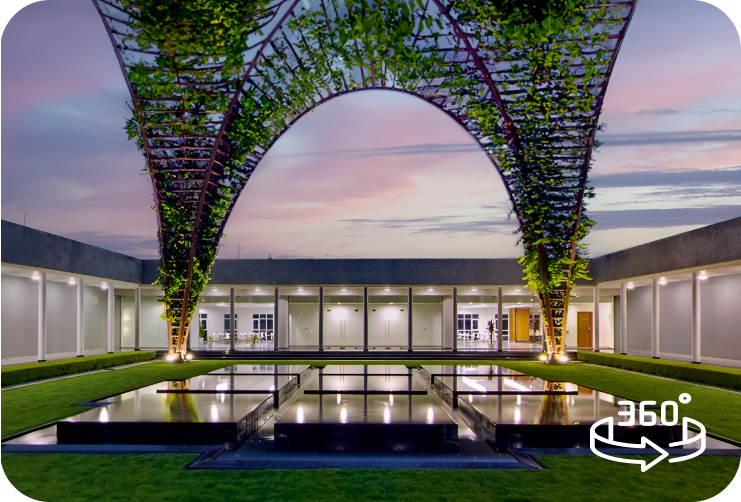
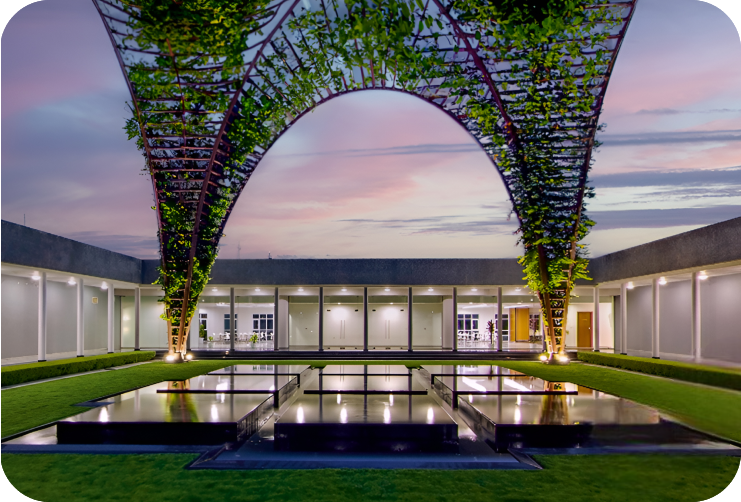
update
ama img

Changed region(s): [[0.776, 0.7171, 1.0, 0.9562], [0.9933, 0.8964, 1.0, 0.9263], [0.9933, 0.7769, 1.0, 0.8068]]

diff --git a/src/components/Ama/Discover.jsx b/src/components/Ama/Discover.jsx
@@ -29,7 +29,7 @@ export default function Discover() {
                     <div className="relative w-[55%] h-[30vw] rounded-[3vw] overflow-hidden fadeUp mobile:h-[100vw] mobile:w-[80vw] tablet:w-[80vw] tablet:h-[30vh] mobile:rounded-[6vw]">
                         <Image
                             className="w-full object-cover imageanim"
-                            src="/assets/ama/ama-discover-img.webp" 
+                            src="/assets/ama/ama-discover-img.png" 
                             alt="ama-discover-img"
                             fill
                         />
